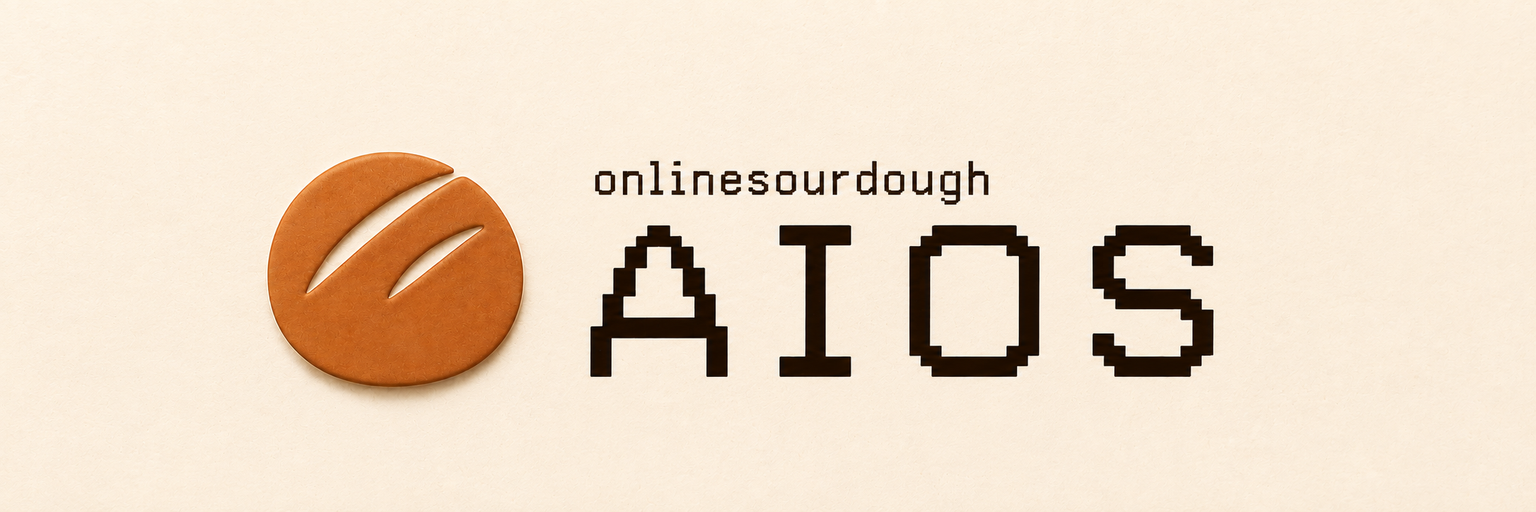
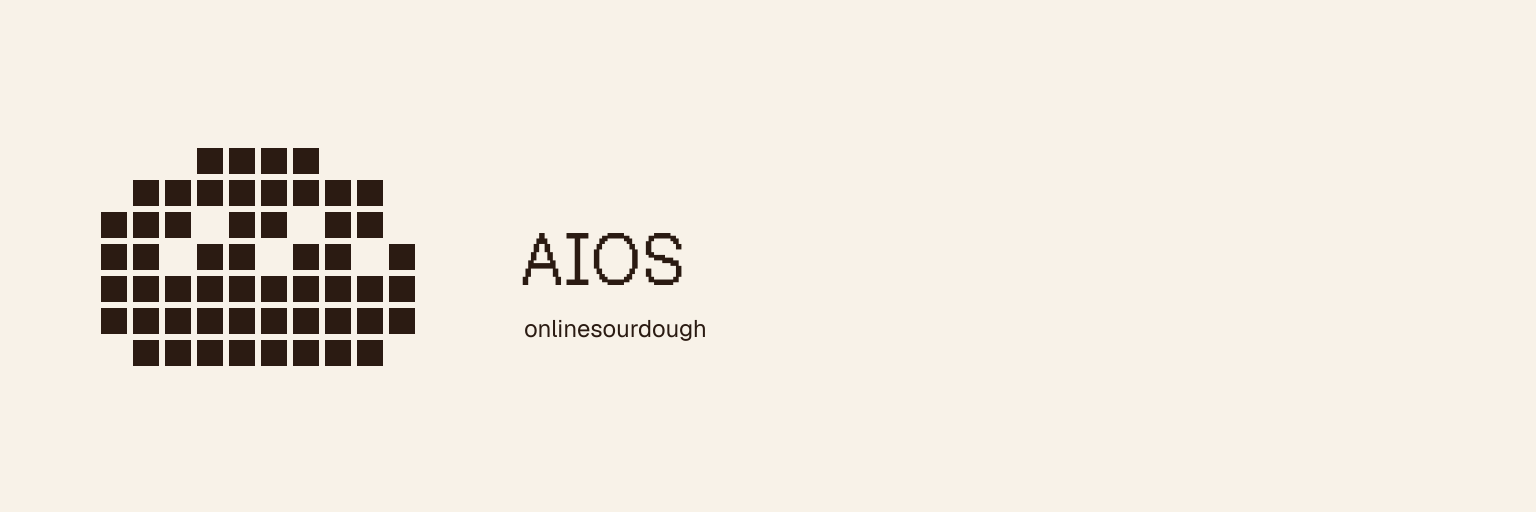
Use the original onlinesourdough pixel bread in AIOS branding

Changed region(s): [[0.0625, 0.2812, 0.5625, 0.8125], [0.5938, 0.4375, 0.8125, 0.75], [0.375, 0.3125, 0.6562, 0.4062]]

diff --git a/CHANGELOG.md b/CHANGELOG.md
@@ -2,6 +2,8 @@
 
 ## 0.15.0 — 2026-09-30
 
+- Use the original onlinesourdough pixel bread for the plugin icon and banner.
+
 - Make model selection advisory and worker launch human-requested; remove
   routine Spec/Build model assessment and the newest-model default.
 - Route owner-confirmed durable context changes from ordinary conversations
